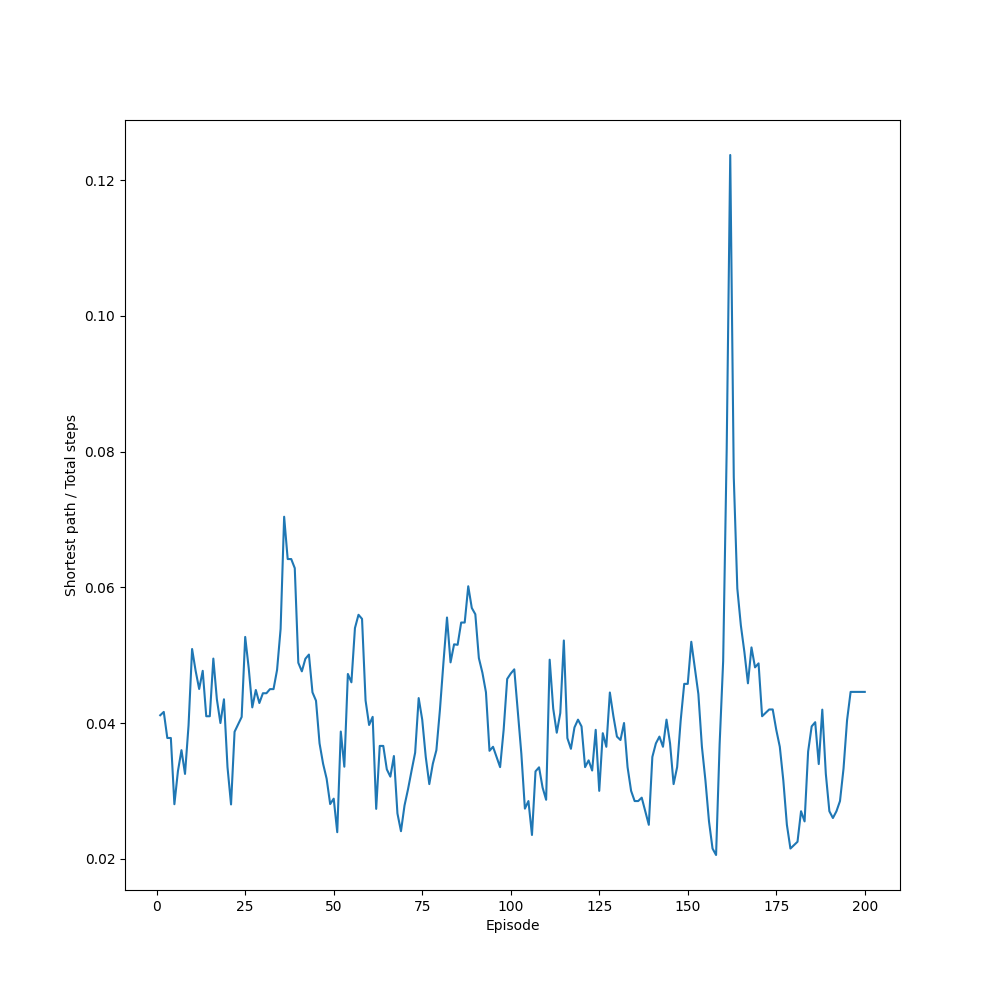
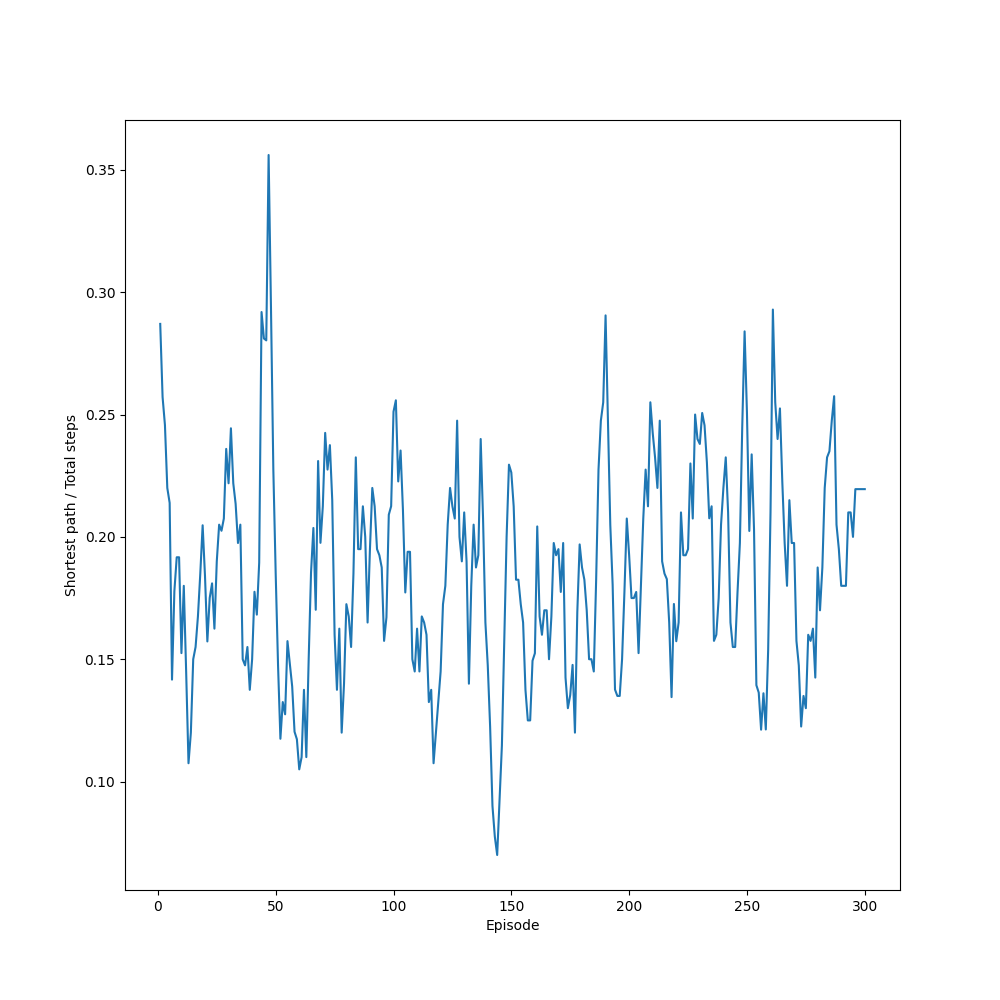
Change load, save and hyper-parameters

diff --git a/main.py b/main.py
@@ -6,7 +6,7 @@ from agent import Agent
 from environment import Environment
 
 env = Environment(20, 7)
-agent = Agent(70, 10, alpha=.01, gamma=.95, epsilon=1, epsilon_lower=.1, epsilon_decay=.98)
+agent = Agent(70, 10, alpha=.1, gamma=.95, epsilon=1, epsilon_lower=.01, epsilon_decay=.95)
 observation = env.snapshot()
 game_over = False
 episode_reward = 0
@@ -47,18 +47,18 @@ def main():
         episode_steps_list, episode_shortest_paths
 
     number_of_episodes = 500
-    max_steps = 400
+    max_steps = 80
 
     for episode in range(number_of_episodes):
         env.reset(True)
         episode_shortest_paths.append(env.shortest_path())
-        if episode in (199, 299, 399, 499):
-            input('Press enter to start viewing the training process on the next episode')
+        # if episode in (399, 499):
+        #     input('Press enter to start viewing the training process on the next episode')
 
         while not game_over and episode_steps < max_steps:
             state = process_frame(observation)
             agent.step(state, take_action)
-            if episode in (199, 299, 399, 499):
+            if episode in (399, 499):
                 env.render(f'Stage: Training - Episode: {episode + 1}/{number_of_episodes} - Reward: {episode_reward} '
                            f'- Steps: {episode_steps} - Shortest path: {episode_shortest_paths[-1]} '
                            f'\nAgent position: {env.agent_position}'
@@ -66,7 +66,8 @@ def main():
                            f'Epsilon={agent.epsilon:.3f} ')
 
         agent.replay()
-        # if episode % 5 == 0:
+        if episode % 50 == 0:
+            agent.save()
         #     agent.update_target()
 
         print(f'Stage: Training - Episode: {episode + 1}/{number_of_episodes} - Reward: {episode_reward} '
@@ -80,7 +81,7 @@ def main():
         game_over = False
 
     # save the target model
-    agent.save_model('target_model.h5')
+    agent.save()
 
     # plot the rewards
     plt.figure(figsize=(10, 10))
@@ -107,6 +108,8 @@ def main():
 
     # test the model on a new environment
     input('Press enter to test the model on a new environment')
+    plt.close('all')
+    plt.figure(figsize=(10, 10))
     env.reset(True)
     shortest_path = env.shortest_path()
     episode_reward = 0

diff --git a/agent.py b/agent.py
@@ -5,7 +5,6 @@ from queue import Queue
 from keras.models import Sequential
 from keras.layers import Conv2D, Flatten, Dense
 from keras.optimizers import Adam
-from tensorflow.python.keras.saving.save import load_model
 
 
 class Agent:
@@ -18,14 +17,11 @@ class Agent:
         self.memory = Queue(memory_size)
         self.batch_size = batch_size
         self.action_space = [(-1, 0), (1, 0), (0, -1), (0, 1)]
-        # check if target_model.h5 file exists
-        if os.path.exists('target_model.h5'):
-            self.model = load_model('target_model.h5')
-            self.target_model = load_model('target_model.h5')
-            print('***** Model loaded successfully from file *****')
-        else:
-            self.model = self.create_model()
-            self.target_model = self.create_model()
+        self.model = self.create_model()
+        self.target_model = self.create_model()
+        # check if model file exists
+        if os.path.exists('model'):
+            self.load()
 
     def create_model(self):
         model = Sequential()
@@ -88,12 +84,16 @@ class Agent:
 
     def load(self):
         self.model.load_weights('model')
+        self.target_model.load_weights('model')
+        print('***** Model loaded successfully from file *****')
 
     def save(self):
         self.model.save_weights('model')
+        print('***** Model saved successfully to file *****')
 
-    def save_model(self, filename):
-        self.model.save(filename)
-
-    def load_model(self, filename):
-        self.model = load_model(filename)
+    # def save_model(self, filename):
+    #     self.model.save(filename)
+    #
+    # def load_model(self, filename):
+    #     self.model = load_model(filename)
+    #     self.target_model = load_model(filename)
